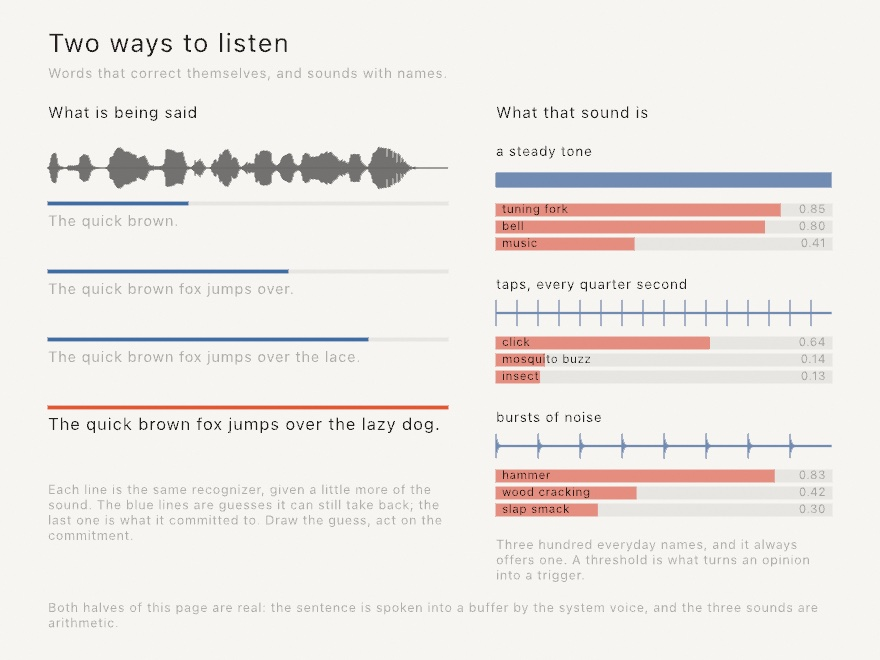
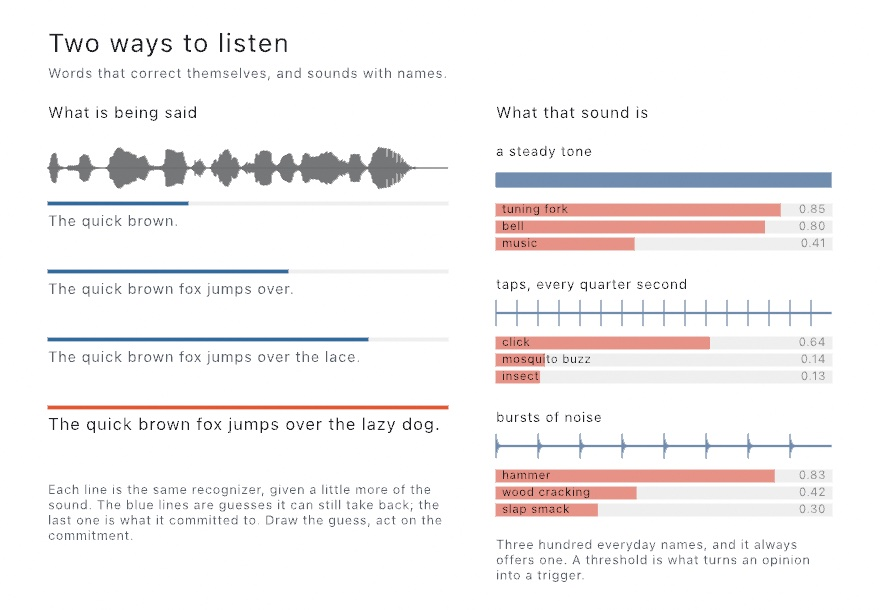
Chapter 34's listening figure takes its colors from the diagram theme and gets its dark sibling. It was the one figure in the chapter with its own hex paper, ink and accent, so dark-mode readers got a warm light page. Its paper, ink, notes, washes and accent now come from DiagramTheme, and the blue 
The dark render runs setup again on the same sketch, which the first themed render showed by drawing all four guesses twice, so setup now asks the voice and both models only once and the two themes show the same pass. The recognizer still heard the fox jump over the lace four fifths of the way through, as Chapter 34 says. The figure stays marked unstable, since the voice and the models are the system's. Chapter 34 and the listening reference embed the pair as a picture element.

Claude-Session: https://claude.ai/code/session_01WqLtBAH3GLezrn1E1FY2W7

diff --git a/Guide/Figures/34-Listening/Listening.swift b/Guide/Figures/34-Listening/Listening.swift
@@ -1,4 +1,4 @@
-// figure: frame=0 unstable
+// figure: frame=0 unstable themed
 //
 // Guide diagram (Chapter 34): the two ways a sketch can listen, and the one
 // thing about speech that shapes the whole API.
@@ -16,16 +16,21 @@
 import AVFoundation
 import Ollin
 import OllinAudio
+import OllinDiagram
 
 final class ListeningFigure: Sketch {
-    override var canvasSize: CanvasSize { .size(880, 660) }
+    override var canvasSize: CanvasSize { .size(880, 610) }
 
-    let paper = Color(hex: 0xF7F5F1)
-    let ink = Color(hex: 0x232020)
-    let soft = Color(hex: 0x2B2B2B, alpha: 0.55)
-    let faint = Color(hex: 0x2B2B2B, alpha: 0.14)
-    let accent = Color(hex: 0xE4572E)
-    let cool = Color(hex: 0x3A6EA5)
+    @Param var darkTheme = false
+    var theme: DiagramTheme { DiagramTheme(dark: darkTheme) }
+
+    var paper: Color { theme.paper }
+    var ink: Color { theme.ink }
+    var soft: Color { theme.muted }
+    var faint: Color { theme.ink(0.14) }
+    var accent: Color { theme.accent }
+    /// The guesses the recognizer can still take back, and the sounds' waves.
+    var cool: Color { Color(hex: darkTheme ? 0x5E96C8 : 0x2E6B9E) }
 
     let sentence = "the quick brown fox jumps over the lazy dog"
 
@@ -38,8 +43,10 @@ final class ListeningFigure: Sketch {
 
     override func setup() {
         noLoop()
-        listenToSpeech()
-        listenToSounds()
+        // The dark render runs setup again on the same sketch, and both themes
+        // should show what one pass of the models heard.
+        if wave.isEmpty { listenToSpeech() }
+        if sounds.isEmpty { listenToSounds() }
     }
 
     private func listenToSpeech() {
@@ -92,14 +99,6 @@ final class ListeningFigure: Sketch {
 
         drawSpeechColumn(x: 48, top: 118, width: 400)
         drawSoundColumn(x: 496, top: 118, width: 336)
-
-        noStroke()
-        fill(soft)
-        textSize(13)
-        textAlign(.left)
-        drawText("Both halves of this page are real: the sentence is spoken into a buffer by the "
-                 + "system voice, and the three sounds are arithmetic.",
-                 in: Rectangle(x: 48, y: 612, width: 784, height: 42))
     }
 
     // MARK: Speech
@@ -191,7 +190,7 @@ final class ListeningFigure: Sketch {
                 drawText(entry.label.replacingOccurrences(of: "_", with: " "),
                          at: Vector2(x + 6, row + 9))
                 textAlign(.right)
-                fill(soft)
+                fill(theme.ink(0.7))
                 drawText(String(format: "%.2f", entry.confidence), at: Vector2(x + width - 6, row + 9))
                 row += 17
             }

diff --git a/Guide/34-Listening.md b/Guide/34-Listening.md
@@ -332,7 +332,10 @@ Two listeners on one microphone is fine. The source is tapped once, and the audi
 
 `SpeechListener` turns talking into text as it is spoken. Use it for captions a performer speaks into being, or for words that change the picture ("red", "stop", "again"). It runs Apple's on-device speech recognizer, the `SpeechAnalyzer` framework, so nothing is uploaded, and it asks for no permission beyond the microphone's. The first use of a language may download its model, which takes a moment and needs the network once. Until the model is in place, `unavailableReason` says so.
 
-<img src="Images/34-Listening/Listening.jpg" alt="Two columns. On the left, a spoken sentence transcribed from growing parts of its audio: 'The quick brown.', 'The quick brown fox jumps over.', 'The quick brown fox jumps over the lace.', and at last 'The quick brown fox jumps over the lazy dog.' On the right, three sounds made of arithmetic, a steady tone, taps every quarter second, and bursts of noise, with the classifier's top three labels for each: tuning fork, click, and hammer first" width="680">
+<picture>
+  <source media="(prefers-color-scheme: dark)" srcset="Images/34-Listening/Listening-dark.jpg">
+  <img src="Images/34-Listening/Listening.jpg" alt="Two columns. On the left, a spoken sentence transcribed from growing parts of its audio: 'The quick brown.', 'The quick brown fox jumps over.', 'The quick brown fox jumps over the lace.', and at last 'The quick brown fox jumps over the lazy dog.' On the right, three sounds made of arithmetic, a steady tone, taps every quarter second, and bursts of noise, with the classifier's top three labels for each: tuning fork, click, and hammer first" width="680">
+</picture>
 
 Recognition guesses early and corrects itself as it hears more. Each line on the left of the figure is the same recognizer handed a little more of one sentence. Four fifths of the way through, its best guess was that the fox jumped over the lace, which fit what it had heard so far. So a listener gives you two reads, one for each job. In this fragment, `ink` is a `Color` property of your sketch that the word "red" changes:
 

diff --git a/Docs/Helpers/Listening.md b/Docs/Helpers/Listening.md
@@ -43,7 +43,10 @@ Everything here runs on the Mac itself, so nothing is uploaded. Speech recogniti
 
 The split comes from how recognition works. The recognizer guesses early and corrects itself as it hears more. So the words on screen a moment ago may not be the words it settles on.
 
-<img src="../../Guide/Images/34-Listening/Listening.jpg" alt="A spoken sentence transcribed from growing prefixes of its audio, and three synthesized sounds with the labels the classifier gave them" width="680">
+<picture>
+  <source media="(prefers-color-scheme: dark)" srcset="../../Guide/Images/34-Listening/Listening-dark.jpg">
+  <img src="../../Guide/Images/34-Listening/Listening.jpg" alt="A spoken sentence transcribed from growing prefixes of its audio, and three synthesized sounds with the labels the classifier gave them" width="680">
+</picture>
 
 So there are three reads:
 
